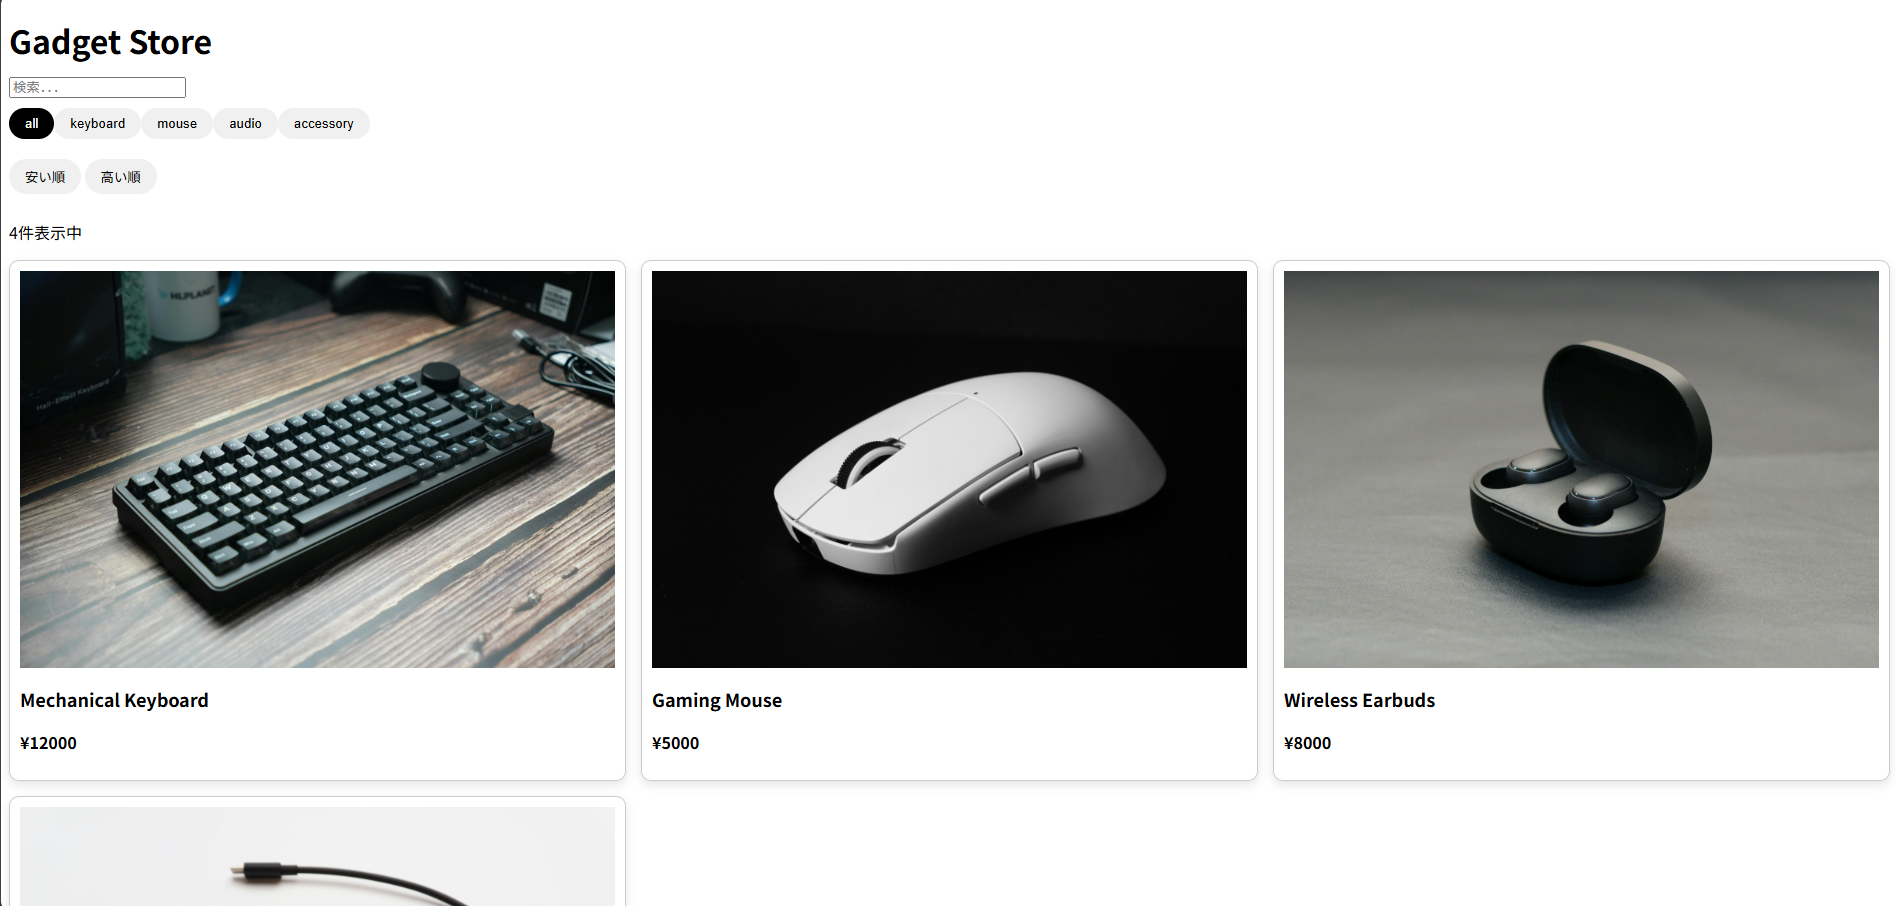
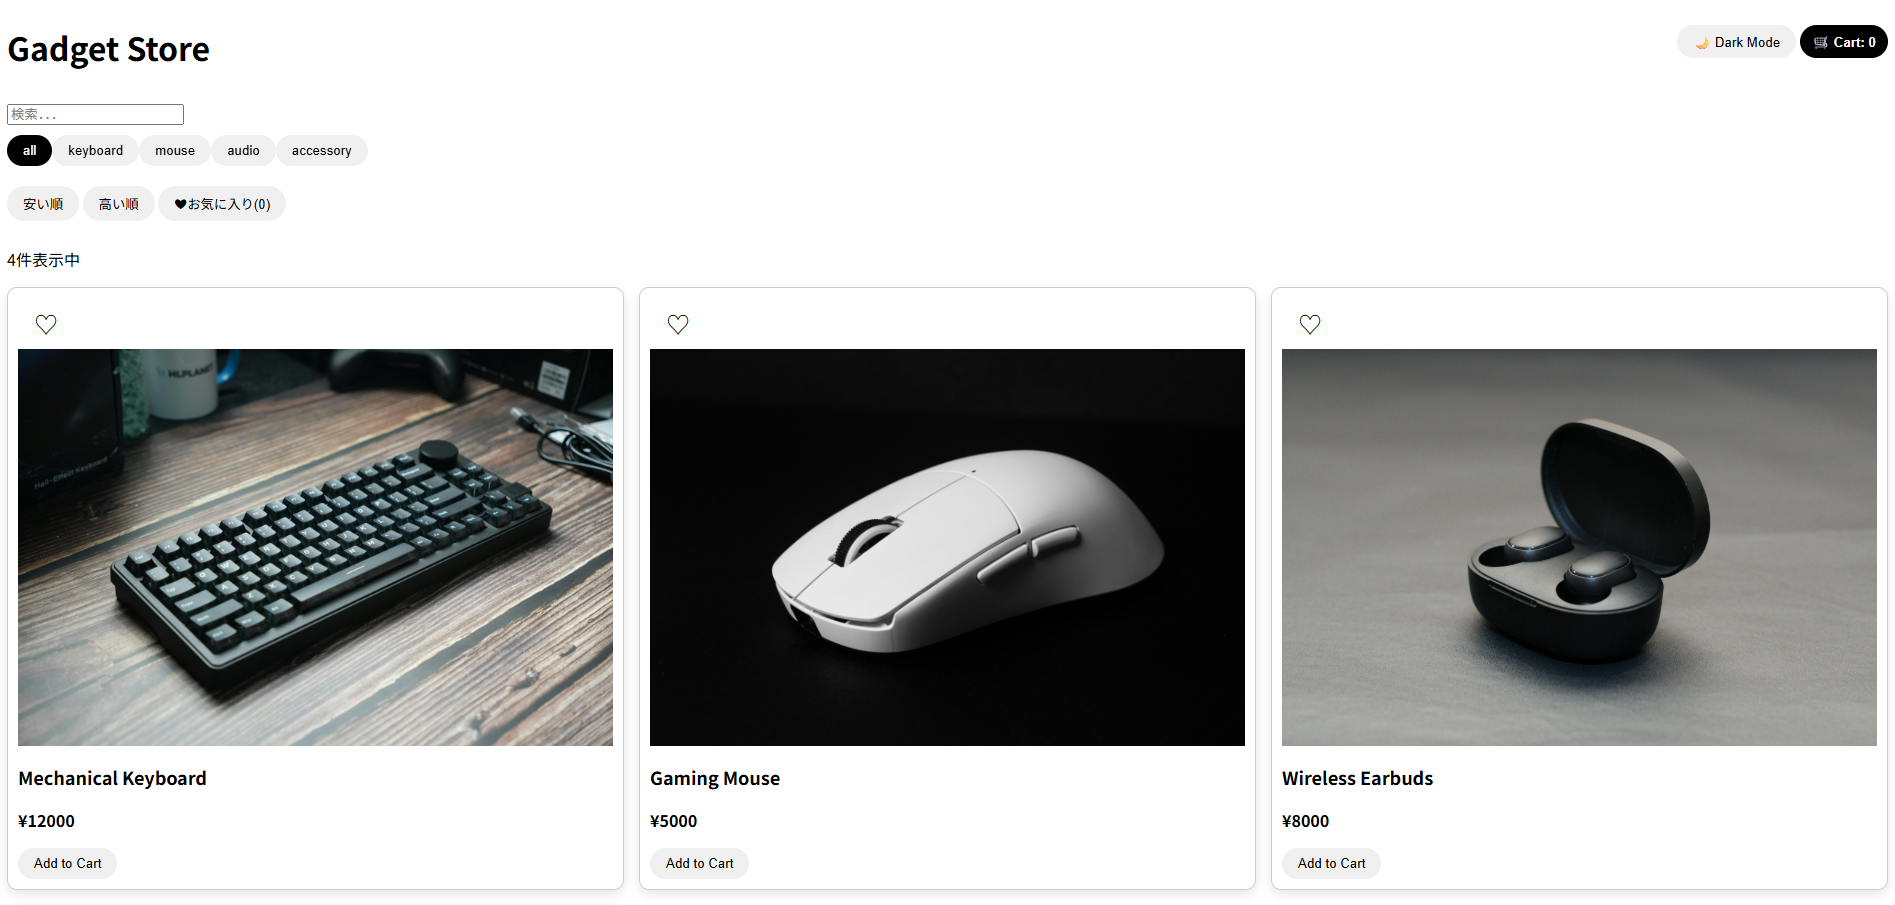
Improve gadget store features

diff --git a/index.html b/index.html
@@ -2,10 +2,25 @@
 <html>
 <head>
     <title>Gadget Store</title>
-    <link rel="stylesheet" href="css/style.css">
+    <link rel="stylesheet" href="style.css">
 </head>
 <body>
+
+<div class="header">
     <h1>Gadget Store</h1>
+
+    <div class="header-buttons">
+
+        <button id="theme-toggle">
+            🌙 Dark Mode
+        </button>
+
+        <button id="cart-button">
+            🛒 Cart: <span id="cart-count">0</span>
+        </button>
+    </div>
+</div>
+    
 
     <input type="text" id="search" placeholder="検索．．．">
 
@@ -13,11 +28,50 @@
 
     <button id="sort-low">安い順</button>
     <button id="sort-high">高い順</button>
+    <button id="favorites-filter">
+        ❤お気に入り
+    </button>
 
     <p id="result-count"></p>
 
     <div id="product-list" class="grid"></div>
 
-    <script src="js/script.js"></script>
+    <div id="cart-modal" class="modal">
+        <div class="modal-content">
+
+            <span id="close-modal">&times;</span>
+
+            <h2>Cart</h2>
+
+            <div id="cart-items"></div>
+            <p id="cart-total-item">0 items</p>
+            <p id="cart-total">Total: ¥0</p>
+
+            <button id="checkout-btn">
+                Proceed to Checkout
+            </button>
+
+        </div>
+    </div>
+
+
+    <div id="toast">
+        ✓ Purchase Complete!
+    </div>
+
+
+    <div id="detail-modal" class="modal">
+        
+        <div class="modal-content">
+
+            <span id="close-detail">&times;</span>
+
+            <div id="detail-content"></div>
+
+        </div>
+        
+    </div>
+
+    <script src="script.js"></script>
 </body>
 </html>
